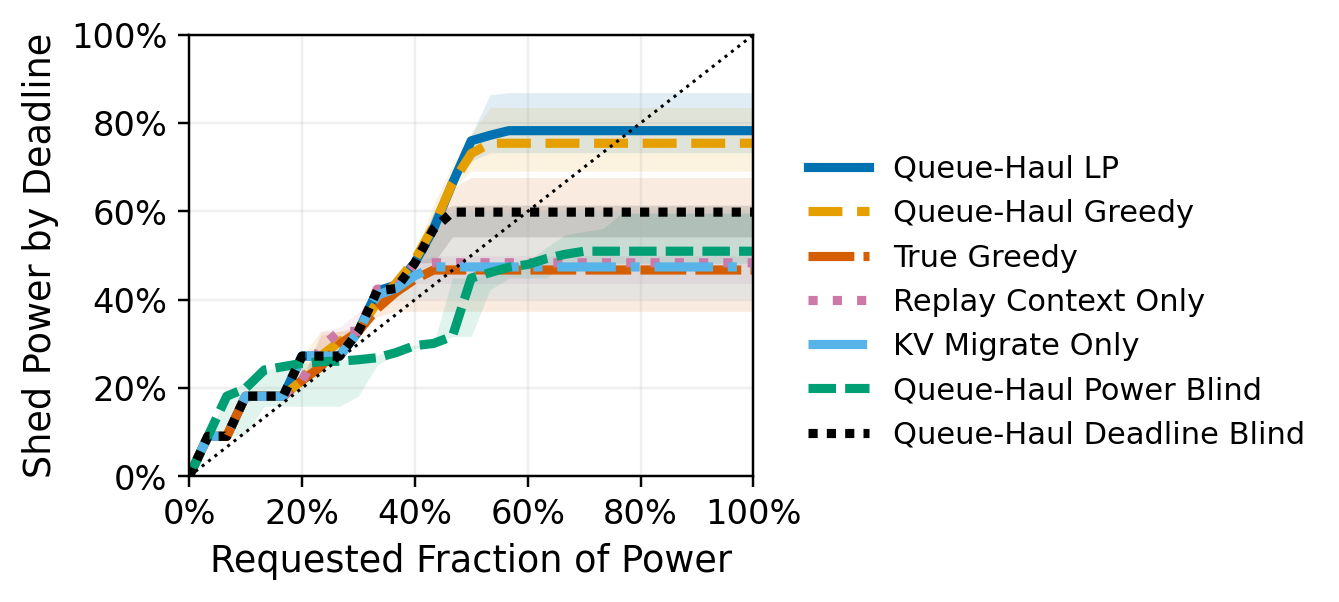
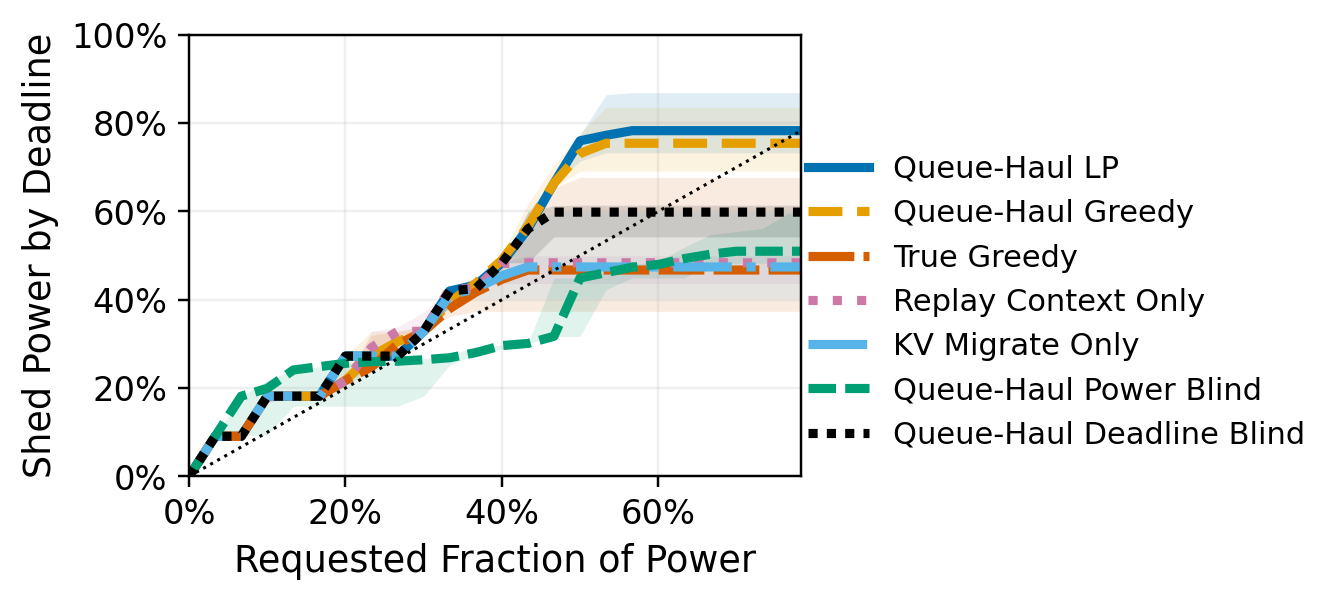
Crop pooled frontier at Queue-Haul parity

diff --git a/agent-migrate/queue-haul/plot_pooled_shed_frontier.py b/agent-migrate/queue-haul/plot_pooled_shed_frontier.py
@@ -102,12 +102,31 @@ def hardware_point(path: Path, requested_fraction: float) -> dict:
             "observations": len(rows)}
 
 
+def queue_haul_cutoff(summary) -> float:
+    rows = sorted((row for row in summary if row["policy"] == "queue_haul_lp"),
+                  key=lambda row: row["requested_fraction"])
+    if len(rows) < 2:
+        raise RuntimeError("Queue-Haul frontier requires at least two points")
+    crossings = []
+    for left, right in zip(rows, rows[1:]):
+        x0, x1 = left["requested_fraction"], right["requested_fraction"]
+        d0, d1 = left["median"] - x0, right["median"] - x1
+        if x0 > 0 and d0 == 0:
+            crossings.append(x0)
+        if d0 > 0 >= d1:
+            crossings.append(x0 + (x1 - x0) * d0 / (d0 - d1))
+    if not crossings:
+        raise RuntimeError("Queue-Haul median frontier does not cross parity")
+    return max(crossings)
+
+
 def write_plot(summary, out: Path, measured=None) -> None:
     import matplotlib
     matplotlib.use("Agg")
     import matplotlib.pyplot as plt
     from matplotlib.ticker import PercentFormatter
 
+    cutoff = queue_haul_cutoff(summary)
     fig, axis = plt.subplots(figsize=(4, 3))
     for policy in POLICIES:
         selected = [row for row in summary if row["policy"] == policy]
@@ -122,14 +141,15 @@ def write_plot(summary, out: Path, measured=None) -> None:
             x, [row["median"] for row in selected],
             **plot_style.policy_style(POLICY_STYLE_IDS[policy]),
         )
-    axis.plot((0, 1), (0, 1), color="black", linestyle=":", linewidth=1)
+    axis.plot((0, cutoff), (0, cutoff), color="black", linestyle=":",
+              linewidth=1)
     if measured:
         axis.scatter(measured["requested_fraction"],
                      measured["attained_fraction"], marker="*", s=110,
                      color=plot_style.POLICY_COLORS["queue_haul"],
                      edgecolor="black", linewidth=.8, zorder=5,
                      label="H100 measured Queue-Haul")
-    axis.set(xlim=(0, 1), ylim=(0, 1),
+    axis.set(xlim=(0, cutoff), ylim=(0, 1),
              xlabel="Requested Fraction of Power",
              ylabel="Shed Power by Deadline")
     axis.xaxis.set_major_formatter(PercentFormatter(1))

diff --git a/agent-migrate/queue-haul/tests/test_pooled_shed_frontier.py b/agent-migrate/queue-haul/tests/test_pooled_shed_frontier.py
@@ -17,7 +17,9 @@ import csv
 
 import pytest
 
-from plot_pooled_shed_frontier import hardware_point, POLICY_STYLE_IDS, pooled_summary
+from plot_pooled_shed_frontier import (
+    hardware_point, POLICY_STYLE_IDS, pooled_summary, queue_haul_cutoff,
+)
 
 
 def test_pooled_summary_normalizes_cases_and_keeps_policy_coordinates():
@@ -49,6 +51,14 @@ def test_pooled_summary_normalizes_cases_and_keeps_policy_coordinates():
 
 def test_pooled_frontier_maps_true_greedy_identity():
     assert POLICY_STYLE_IDS["independent_fastest"] == "isolated_fastest"
+
+
+def test_queue_haul_cutoff_uses_nonzero_interpolated_parity_crossing():
+    rows = [
+        {"policy": "queue_haul_lp", "requested_fraction": x, "median": y}
+        for x, y in ((0, 0), (.5, .7), (.75, .7), (1, .7))
+    ]
+    assert queue_haul_cutoff(rows) == pytest.approx(.7)
 
 
 def test_hardware_point_pools_matched_queue_haul_runs(tmp_path):

diff --git a/agent-migrate/queue-haul/README.md b/agent-migrate/queue-haul/README.md
@@ -704,7 +704,9 @@ removable power before equal-weight pooling; raw overshed remains visible above
 the diagonal. Lines are medians and ribbons are the interquartile spread across
 designed cases, not repeated-run confidence intervals. Deadline-blind plans
 against 90 seconds but receives credit only for shed attained by the common
-30-second cutoff.
+30-second cutoff. The x-axis ends at the nonzero intersection of Queue-Haul
+LP's median frontier with requested-equals-attained parity; the y-axis retains
+the full 0--100% removable-power range.
 
 The companion attainment-time ECDF uses the same twelve cases at the common
 67% stress point. Each event is the first modeled target crossing plus the
